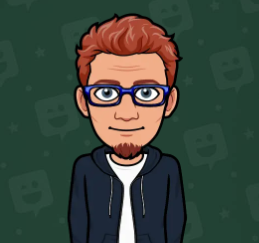
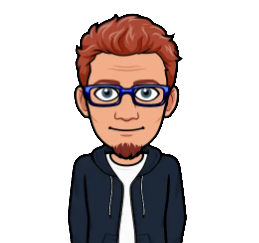
Add new content

diff --git a/index.html b/index.html
@@ -13,7 +13,10 @@
       @import url('https://fonts.googleapis.com/css2?family=Doppio+One&family=Karla:wght@200&family=Roboto+Condensed&family=Roboto:wght@300&display=swap');
 
       body {
-        background: #111;
+        background: url("./img/pattern.jpg");
+        background-attachment: fixed;
+        background-size: cover;
+        background-repeat: no-repeat;
         color: white;
         margin: 0px;
         padding: 0px;
@@ -149,7 +152,7 @@
           <p>Od wielu lat zajmujący się programowaniem, posiadający doświadczenie w tworzeniu systemów operacyjnych oraz maszyn wirtualnych w C, C++ oraz Assemblerze. Od kilku lat zajmujący się również elektroniką oraz mechaniką. Ceni sobie tworzenie własnych autorkich rozwiązań i używanie ich nad ściąganie gotowców.</p>
           <img src="img/cixo.png">
           </div>
-          <h4>Aleksander 'Olek47' Szkrobol</h4>
+          <h4>Aleksander Szkrobol</h4>
           <div class="person">
           <p>Dzięki swojej bogatej wiedzy z zakresu security oraz tworzenia systemów safety-critical jest w stanie zaprojekotwać bardzo stabilny system potrzebny do wykonania misji, odpowiednio go przetestować jak również przewidzieć wszyskie ewentualności jakie mogą wydarzyć się podczas misji CanSat-a.</p>
           <img src="img/olek.png">
